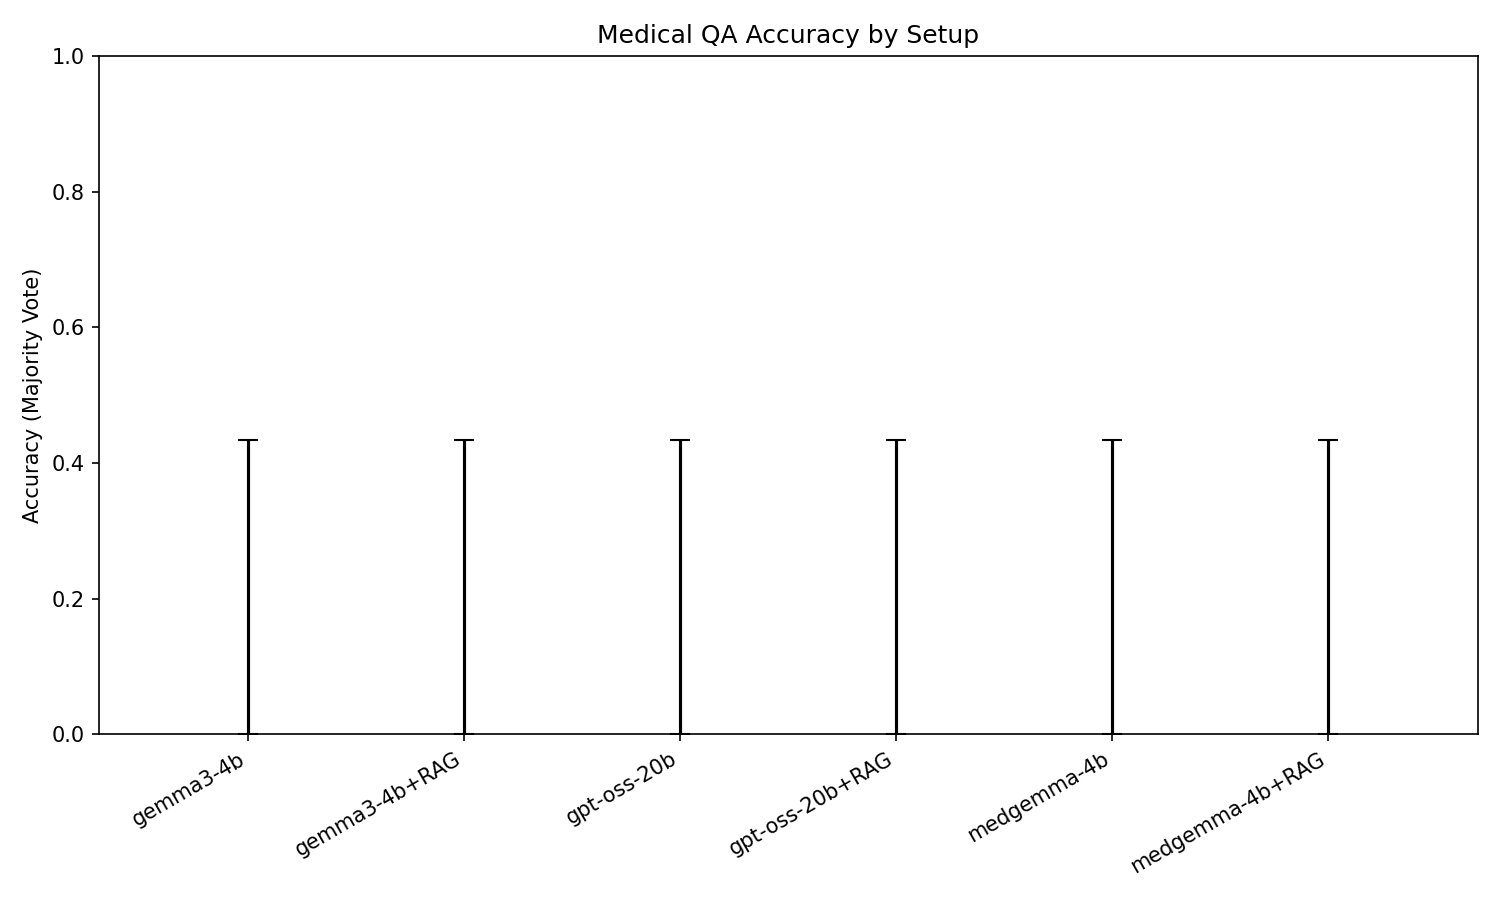
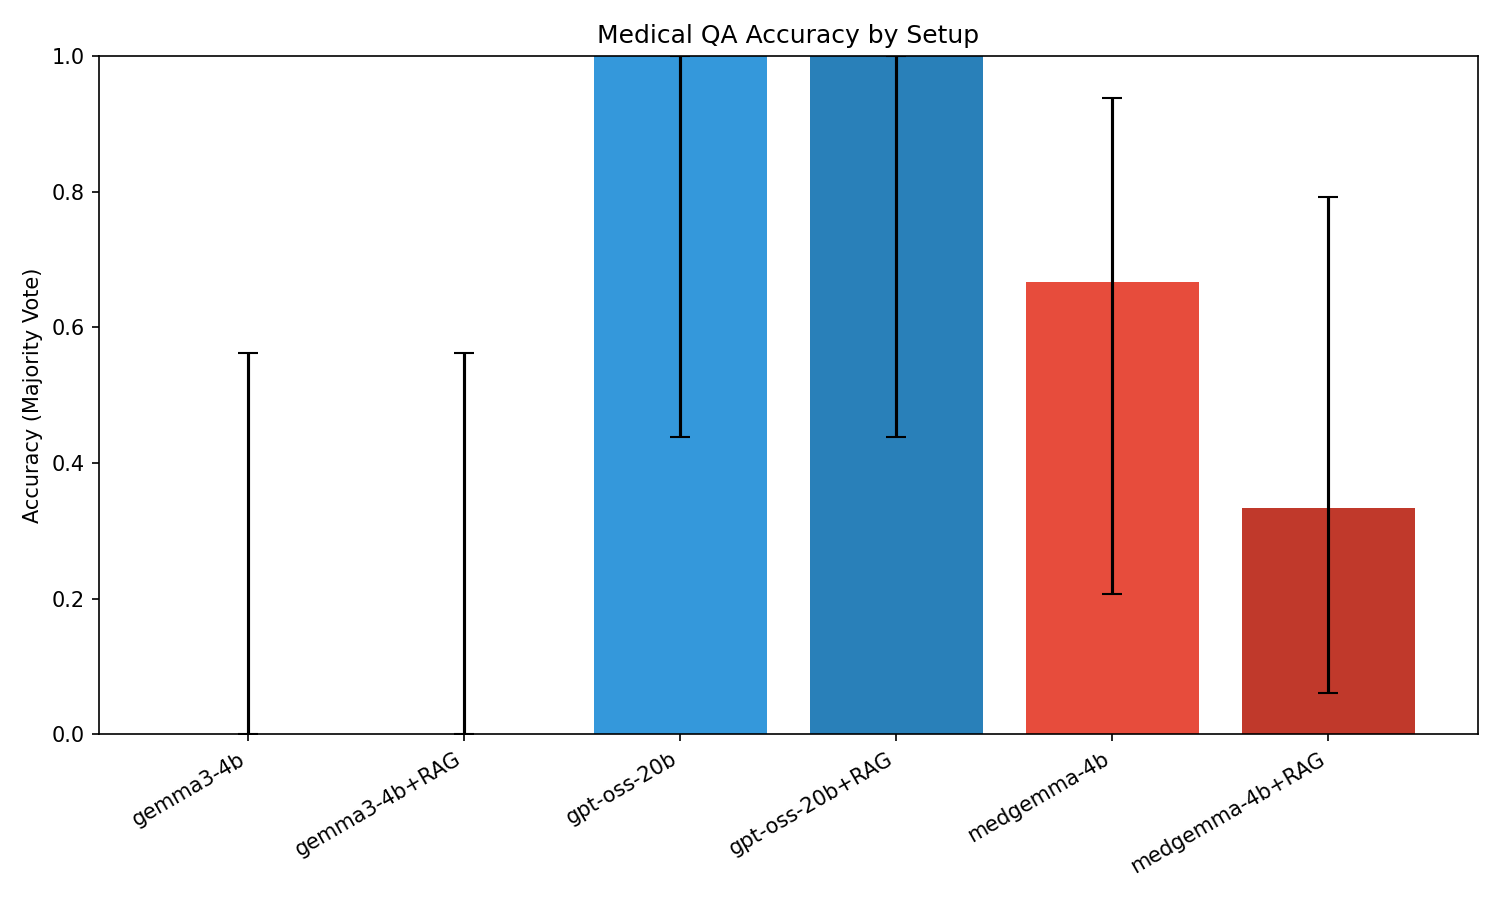
short experiment to sanity pipline

Changed region(s): [[0.3987, 0.0622, 0.7973, 0.84], [0.828, 0.56, 0.9507, 0.84]]

diff --git a/src/dataset/loader.py b/src/dataset/loader.py
@@ -7,6 +7,8 @@ from pathlib import Path
 
 from datasets import load_dataset
 
+VALID_ANSWERS = {"A", "B", "C", "D"}
+
 
 @dataclass
 class Question:
@@ -15,6 +17,33 @@ class Question:
     options: dict[str, str]  # {"A": "...", "B": "...", ...}
     correct_answer: str  # letter: "A", "B", "C", or "D"
     metadata: dict[str, str] = field(default_factory=dict)
+
+
+def _normalize_answer_to_letter(answer: str, options: dict[str, str]) -> str:
+    """Return answer as letter A-D when possible.
+
+    Some MedQA variants store the gold answer as answer text, not as option letter.
+    """
+    candidate = (answer or "").strip()
+    if candidate in options:
+        return candidate
+
+    # Match by exact option text first.
+    for key, value in options.items():
+        if candidate == value.strip():
+            return key
+
+    # Fallback: keep original value if no mapping is found.
+    return candidate
+
+
+def _validate_correct_answer(question_id: str, correct_answer: str) -> None:
+    """Fail fast when a question's gold label is not A/B/C/D."""
+    if correct_answer not in VALID_ANSWERS:
+        raise ValueError(
+            f"Invalid correct_answer for {question_id}: {correct_answer!r}. "
+            "Expected one of A/B/C/D."
+        )
 
 
 def load_medqa(
@@ -39,9 +68,10 @@ def load_medqa(
             id=f"medqa_{split}_{idx}",
             question_text=row["question"],
             options=options,
-            correct_answer=row["answer"],
+            correct_answer=_normalize_answer_to_letter(row["answer"], options),
             metadata={"split": split, "index": str(idx)},
         )
+        _validate_correct_answer(q.id, q.correct_answer)
         questions.append(q)
 
     if max_questions is not None and max_questions < len(questions):
@@ -65,5 +95,13 @@ def load_questions(path: Path) -> list[Question]:
     with open(path) as f:
         for line in f:
             data = json.loads(line)
-            questions.append(Question(**data))
+            # Backward compatibility for previously saved files
+            # where correct_answer may be answer text.
+            data["correct_answer"] = _normalize_answer_to_letter(
+                data.get("correct_answer", ""),
+                data.get("options", {}),
+            )
+            q = Question(**data)
+            _validate_correct_answer(q.id, q.correct_answer)
+            questions.append(q)
     return questions

diff --git a/results/report.md b/results/report.md
@@ -1,0 +1,87 @@
+# Experiment Report: What Makes It Right?
+
+## Research Question
+What is more crucial for medical QA accuracy: model size, domain expertise, or retrieved knowledge?
+
+## Setup Summary
+- **Questions**: 3
+- **Repetitions per question**: 2
+- **Total LLM calls**: 36
+
+## Accuracy Results (Majority Vote)
+
+| setup_name      |   accuracy |   ci_lower |   ci_upper |   correct |   total |
+|:----------------|-----------:|-----------:|-----------:|----------:|--------:|
+| gemma3-4b       |     0.0000 |     0.0000 |     0.5615 |         0 |       3 |
+| gemma3-4b+RAG   |     0.0000 |     0.0000 |     0.5615 |         0 |       3 |
+| gpt-oss-20b     |     1.0000 |     0.4385 |     1.0000 |         3 |       3 |
+| gpt-oss-20b+RAG |     1.0000 |     0.4385 |     1.0000 |         3 |       3 |
+| medgemma-4b     |     0.6667 |     0.2077 |     0.9385 |         2 |       3 |
+| medgemma-4b+RAG |     0.3333 |     0.0615 |     0.7923 |         1 |       3 |
+
+![Accuracy Comparison](accuracy_comparison.png)
+
+## Mean Per-Question Accuracy
+
+| setup_name      |   mean_accuracy |
+|:----------------|----------------:|
+| gemma3-4b       |          0.0000 |
+| gemma3-4b+RAG   |          0.0000 |
+| gpt-oss-20b     |          0.8333 |
+| gpt-oss-20b+RAG |          0.8333 |
+| medgemma-4b     |          0.6667 |
+| medgemma-4b+RAG |          0.3333 |
+
+## Consistency (Agreement Across Repetitions)
+
+| setup_name      |   consistency |
+|:----------------|--------------:|
+| gemma3-4b       |        1.0000 |
+| gemma3-4b+RAG   |        1.0000 |
+| gpt-oss-20b     |        0.8333 |
+| gpt-oss-20b+RAG |        0.8333 |
+| medgemma-4b     |        1.0000 |
+| medgemma-4b+RAG |        1.0000 |
+
+![Consistency Comparison](consistency_comparison.png)
+
+## Parse Failure Rate
+
+| setup_name      |   parse_failure_rate |
+|:----------------|---------------------:|
+| gemma3-4b       |               0.0000 |
+| gemma3-4b+RAG   |               0.0000 |
+| gpt-oss-20b     |               0.0000 |
+| gpt-oss-20b+RAG |               0.0000 |
+| medgemma-4b     |               0.0000 |
+| medgemma-4b+RAG |               0.0000 |
+
+## Pairwise Statistical Tests (McNemar's)
+
+| setup_a         | setup_b         |   a_only_correct |   b_only_correct |   statistic |   p_value | significant   |
+|:----------------|:----------------|-----------------:|-----------------:|------------:|----------:|:--------------|
+| gemma3-4b       | gemma3-4b+RAG   |                0 |                0 |      0.0000 |    1.0000 | False         |
+| gemma3-4b       | gpt-oss-20b     |                0 |                3 |      1.3333 |    0.2482 | False         |
+| gemma3-4b       | gpt-oss-20b+RAG |                0 |                3 |      1.3333 |    0.2482 | False         |
+| gemma3-4b       | medgemma-4b     |                0 |                2 |      0.5000 |    0.4795 | False         |
+| gemma3-4b       | medgemma-4b+RAG |                0 |                1 |      0.0000 |    1.0000 | False         |
+| gemma3-4b+RAG   | gpt-oss-20b     |                0 |                3 |      1.3333 |    0.2482 | False         |
+| gemma3-4b+RAG   | gpt-oss-20b+RAG |                0 |                3 |      1.3333 |    0.2482 | False         |
+| gemma3-4b+RAG   | medgemma-4b     |                0 |                2 |      0.5000 |    0.4795 | False         |
+| gemma3-4b+RAG   | medgemma-4b+RAG |                0 |                1 |      0.0000 |    1.0000 | False         |
+| gpt-oss-20b     | gpt-oss-20b+RAG |                0 |                0 |      0.0000 |    1.0000 | False         |
+| gpt-oss-20b     | medgemma-4b     |                1 |                0 |      0.0000 |    1.0000 | False         |
+| gpt-oss-20b     | medgemma-4b+RAG |                2 |                0 |      0.5000 |    0.4795 | False         |
+| gpt-oss-20b+RAG | medgemma-4b     |                1 |                0 |      0.0000 |    1.0000 | False         |
+| gpt-oss-20b+RAG | medgemma-4b+RAG |                2 |                0 |      0.5000 |    0.4795 | False         |
+| medgemma-4b     | medgemma-4b+RAG |                1 |                0 |      0.0000 |    1.0000 | False         |
+
+![Pairwise Significance](pairwise_significance.png)
+
+## RAG Effect Tests
+
+| setup_a     | setup_b         |   a_only_correct |   b_only_correct |   statistic |   p_value | significant   |
+|:------------|:----------------|-----------------:|-----------------:|------------:|----------:|:--------------|
+| gemma3-4b   | gemma3-4b+RAG   |                0 |                0 |      0.0000 |    1.0000 | False         |
+| gpt-oss-20b | gpt-oss-20b+RAG |                0 |                0 |      0.0000 |    1.0000 | False         |
+| medgemma-4b | medgemma-4b+RAG |                1 |                0 |      0.0000 |    1.0000 | False         |
